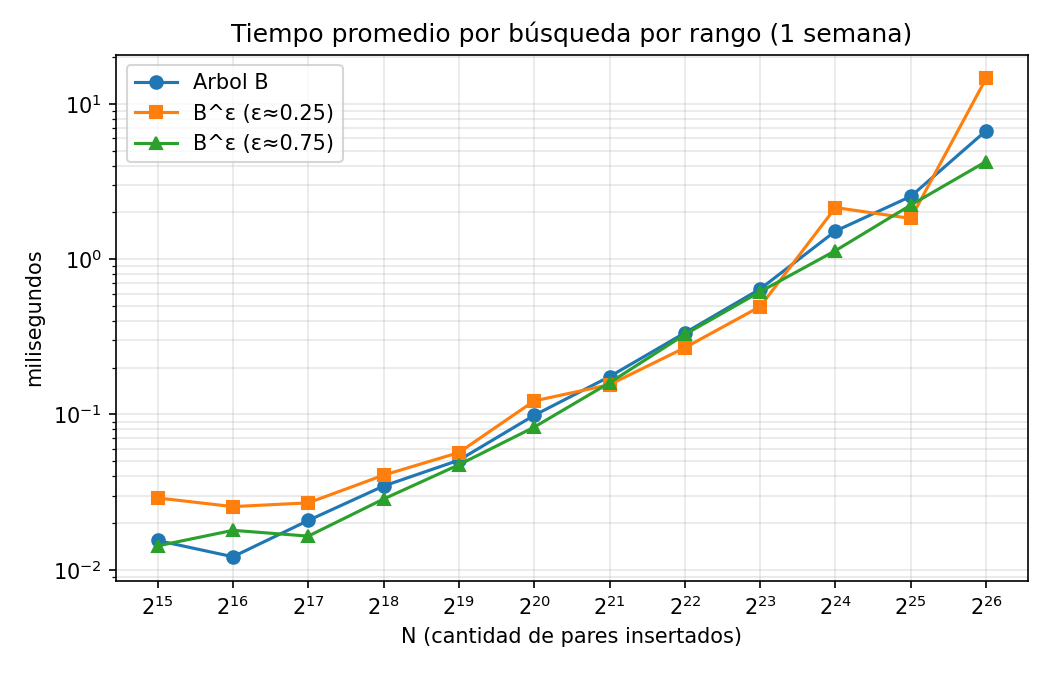
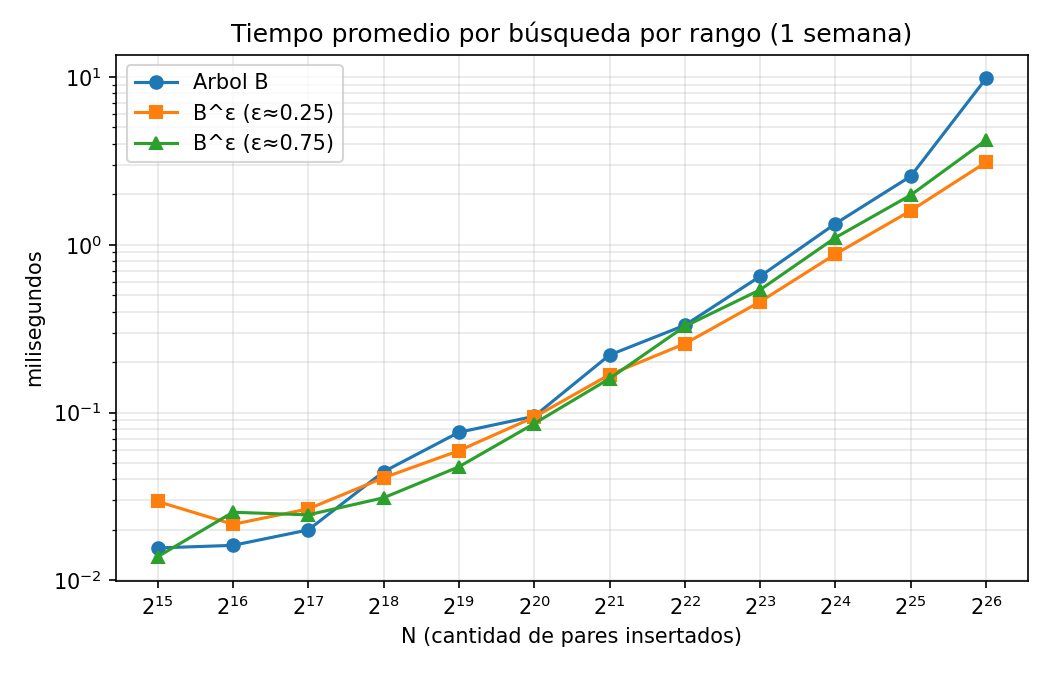
Actualiza resultados, gráficosy README

diff --git a/README.md b/README.md
@@ -1,2 +1,112 @@
-# Tarea2_CC4102_2026
-Proyecto para el curso c:
+# Tarea2-CC4102
+
+Implementación de un **árbol B** y de dos **árboles B^ε** (ε ≈ 0.25 y ε ≈ 0.75) en memoria externa, con inserción de pares llave-valor y búsqueda por rango, usando datos reales de temperatura de la Estación Quinta Normal (Santiago, 2019–2025). Un único `main` corre toda la batería de experimentos sin tener que modificar el código.
+
+## Requisitos
+
+* Compilador de C++.
+* Python 3 con **matplotlib** (solo para graficar).
+* Los archivos `datos.bin` y `datos_sample.txt` entregados por el equipo docente, en la misma carpeta que el código.
+* Espacio libre: ~2 GB en disco y ~2 GB de RAM para el mayor N (2^26).
+
+## Archivos del proyecto
+
+| Archivo | Qué hace |
+|---|---|
+| `disco.h` | `DiscoSimulado`: arreglo de nodos en RAM que simula el disco, cuenta lecturas/escrituras y guarda el árbol en un binario. `LectorArchivo`: lee nodos de 4096 bytes desde el binario y cuenta las lecturas. Define `Par` (llave `int`, valor `float`). |
+| `arbol_b.h` | Árbol B (b = 340): nodo, split, inserción y búsqueda por rango. |
+| `arbol_be.h` | Árbol B^ε: nodo, split de hoja e interno, vaciado de buffer (flush), inserción y búsqueda por rango. Parametrizado por `c` y `lmax`. |
+| `main.cpp` | Lee `datos.bin`, corre los experimentos, mide tiempos e I/Os, verifica resultados y escribe los CSV. |
+| `graficos.py` | Lee los CSV y genera los gráficos. |
+| `datos.bin` | (entregado) 67 millones de pares: llave `int` (tiempo Unix) y valor `float` (temperatura). |
+| `datos_sample.txt` | (entregado) Primeros 50 pares en texto, para verificar la lectura. |
+
+## Cómo compilar y ejecutar todo
+
+Con todos los `.h` y `main.cpp` en la misma carpeta:
+
+```bash
+g++ -O2 -std=c++17 -Wall -o tarea2 main.cpp 
+./tarea2 experimento --alpha 0.5            # experimento completo (2^15 a 2^26)
+./tarea2 ejemplo 18 24                      # misma búsqueda para dos N
+python graficos.py resultados               # genera los gráficos (PNG)
+```
+
+Esto corre, para cada N = 2^15, 2^16, …, 2^26, la construcción y las búsquedas del árbol B y de los dos B^ε (c = 4, lmax = 506 y c = 126, lmax = 384), con α = 0.5, y por ultimo, la busqueda por rango para dos N dados. **Puede tardar del orden de 5 minutos**.
+
+Al terminar se genera la carpeta `resultados/graficos/` con las imágenes `.png` (ver sección siguiente).
+
+> El ejecutable se llama `tarea2.exe`.
+
+## Pasos recomendados (de menor a mayor)
+
+1. **Compilar el archivo `main.cpp`**:
+   ```bash
+   g++ -O2 -std=c++17 -Wall -o tarea2 main.cpp 
+   ```
+2. **Verificar que los datos se leen bien** (comparar con `datos_sample.txt`):
+   ```bash
+   ./tarea2 verificar
+   ```
+3. **Prueba rápida** (N = 2^15 a 2^18), para comprobar que todo compila y corre:
+   ```bash
+   ./tarea2 experimento --nmin 15 --nmax 18
+   ```
+4. **Experimento completo con alpha = 0.5**:
+   ```bash
+   ./tarea2 experimento --alpha 0.5  
+   ```
+5. **Búsqueda por rango de ejemplo** para dos valores de N (por ejemplo 2^18 y 2^24):
+   ```bash
+   ./tarea2 ejemplo 18 24
+   ```
+6. **Gráficos**:
+   ```bash
+   python graficos.py resultados
+   ```
+
+## Opciones de `./tarea2`
+
+### `verificar`
+Imprime los primeros 50 pares de `datos.bin` y el total de pares del archivo.
+
+### `experimento`
+Se pueden combinar entre sí:
+
+* `--datos ruta`: ruta de `datos.bin` (por defecto `datos.bin`).
+* `--dir carpeta`: carpeta de salida (por defecto `resultados`).
+* `--alpha a`: parámetro α del vaciado de buffer, con 0 < a < 1 (por defecto **0.5**).
+* `--nmin e` / `--nmax e`: exponentes mínimo y máximo, con N = 2^e (por defecto 15 y 26).
+* `--keep`: no borrar los archivos binarios de los árboles al terminar.
+* `--append`: agregar filas a `resultados.csv` en vez de reescribirlo (útil para continuar una corrida interrumpida).
+
+Ejemplo: `./tarea2 experimento --alpha 0.25 --nmin 20 --nmax 22 --dir prueba`
+
+### `ejemplo E1 E2`
+Construye un árbol B con N = 2^E1 y con N = 2^E2 y ejecuta la **misma** búsqueda por rango (una semana) en ambos.
+
+* `--l unix`: inicio del rango en tiempo Unix (por defecto 1650000000). El rango es `[l, l + 604800]`.
+* Acepta también `--datos` y `--dir`.
+
+## Archivos que genera
+
+| Archivo | Contenido |
+|---|---|
+| `resultados/resultados.csv` | Una fila por (árbol, N): tiempo de creación, lecturas y escrituras simuladas, I/Os totales de creación, nodos usados, tamaño en bytes, tiempo de guardado a disco, tiempo promedio de búsqueda (ms), I/Os promedio por búsqueda y cantidad promedio de pares encontrados. Los árboles se llaman `B`, `Be_0.25` y `Be_0.75`. |
+| `resultados/rango_<e>.csv` | Pares (llave, valor) devueltos por la búsqueda de ejemplo para N = 2^e. |
+| `resultados/graficos/tiempo_creacion.png` | Tiempo de creación vs. N. |
+| `resultados/graficos/ios_creacion.png` | I/Os simuladas de inserción vs. N. |
+| `resultados/graficos/tamano.png` | Tamaño del árbol vs. N. |
+| `resultados/graficos/tiempo_busqueda.png` | Tiempo promedio de búsqueda vs. N. |
+| `resultados/graficos/ios_busqueda.png` | I/Os promedio por búsqueda vs. N. |
+| `resultados/graficos/rango_comparacion.png` | Temperatura vs. tiempo de la misma búsqueda para dos N distintos. |
+
+## Detalles de implementación
+
+* **Disco simulado:** durante la construcción el árbol es un arreglo de nodos en RAM (`DiscoSimulado`); el nodo 0 es la raíz. Cada `leer` cuenta como una lectura y cada `escribir`/`agregar`/`registrarEscritura` como una escritura. Al terminar se escribe el arreglo a un binario (nodo *i* en la posición *i*·4096).
+* **Búsquedas:** se hacen leyendo bloques de 4096 bytes desde ese binario (`LectorArchivo`), contando una lectura por bloque. El sistema operativo puede cachear el archivo, por lo que los tiempos pueden ser optimistas; las I/Os contadas no se ven afectadas.
+* **Consultas:** 50 límites inferiores `l` uniformes en [1546300800, 1754006400] (semilla fija) y `u = l + 604800`. Las mismas 50 consultas se usan en los tres árboles y para todos los N.
+* **Parámetro α:** se bajan del buffer los grupos con al menos ⌈f·α⌉ elementos, con f = ⌈k_buffer / (k_llaves + 1)⌉. Valor usado por defecto: α = 0.5.
+* **Memoria:** los árboles se construyen, guardan y consultan de a uno, liberando la RAM entre uno y otro. Los datos se leen por lotes de 65536 pares y esa lectura no se incluye en el tiempo de creación.
+* **Verificación automática:** para cada N, el programa compara los resultados de las 50 búsquedas del árbol B con los de los dos B^ε (cantidad de pares y hash independiente del orden) e imprime si coinciden. Con rangos de una semana se espera encontrar cerca del 0.29 % de los N pares.
+* Si `datos.bin` tuviera menos de 2^26 pares, el último N usa todos los pares disponibles (se avisa por consola y la columna `n_real` del CSV lo refleja).
